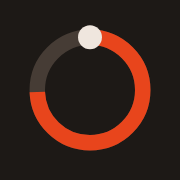
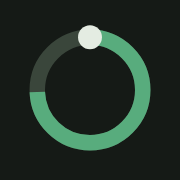
Stil Salbei: ruhige Farben, Schriften und Formen für den Zyklus-Tracker
Ersetzt die Terra-Farben durch die Salbei-Palette (hell und dunkel),
Schriften Fraunces / DM Sans / DM Mono, weichere Ecken und dünnere Linien.
Icons neu gerendert, Service-Worker-Version auf 1.5.0.

Claude-Session: https://claude.ai/code/session_01R2Ae65tKuBuL29BCCGRDHo

Changed region(s): [[0.1389, 0.1667, 0.8611, 0.8611]]

diff --git a/styles.css b/styles.css
@@ -1,24 +1,24 @@
-/* Hausstil Web v1.2 (Anna) */
+/* Stil Salbei v1.0 (Castra-Designsystem, auf Basis Hausstil Web) */
 :root {
-  --bg:#E3DAD3; --surface:#F2EBE6; --sunken:#D8CDC5; --line:#C8BBB1; --ink:#111111; --muted:#5C524D; --faint:#8D837C;
-  --accent:#E8451C; --accent-text:#AA310D; --accent-hover:#C9380F; --accent-tint:#F5CEC2; --accent-ink:#111111;
+  --bg:#DCE2D6; --surface:#F0F3EC; --sunken:#CDD5C6; --line:#B9C3B1; --ink:#16201A; --muted:#4A574D; --faint:#87918A;
+  --accent:#2F7A55; --accent-text:#21603F; --accent-hover:#276A49; --accent-tint:#CFE3D3; --accent-ink:#FFFFFF; --label-no:#CFE3D3;
   --ok:#2B6B3A; --ok-tint:#DCE8DA; --warn:#7A5200; --warn-tint:#F1E3C4;
   --err:#A3182B; --err-tint:#F2D3D3; --info:#1F4E8C; --info-tint:#D6E0EC;
   --m-gut:#2E8B47; --m-ok:#D9A300; --m-schlecht:#C8283C; --m-abends:#7B4FC2;
-  --serif:"Source Serif 4",Georgia,serif; --sans:"IBM Plex Sans",system-ui,sans-serif; --mono:"IBM Plex Mono",ui-monospace,monospace;
+  --serif:"Fraunces",Georgia,serif; --sans:"DM Sans",system-ui,sans-serif; --mono:"DM Mono",ui-monospace,monospace;
   --s1:4px; --s2:8px; --s3:12px; --s4:16px; --s5:24px; --s6:32px; --s7:48px; --s8:64px;
   --r:2px; --maxw:960px; --gutter:clamp(16px,4vw,40px); color-scheme:light;
 }
 [data-theme="dark"] {
-  --bg:#1D1916; --surface:#27211D; --sunken:#332B26; --line:#463C35; --ink:#EFE6DE; --muted:#B7ABA1; --faint:#7F746B;
-  --accent:#E8451C; --accent-text:#F0896F; --accent-hover:#EB603C; --accent-tint:#4E281D; --accent-ink:#111111;
+  --bg:#151A16; --surface:#1E2520; --sunken:#28312A; --line:#3A463B; --ink:#E4ECE2; --muted:#A8B6A9; --faint:#6E7A6F;
+  --accent:#58AC7D; --accent-text:#8CD3A8; --accent-hover:#6BBB8E; --accent-tint:#1F3A2A; --accent-ink:#0D140F; --label-no:#0D140F;
   --ok:#7FC48F; --ok-tint:#233226; --warn:#E0B25A; --warn-tint:#352B17;
   --err:#F08A8F; --err-tint:#3A2123; --info:#8DB4EA; --info-tint:#1E2A3A;
   --m-gut:#6FCB85; --m-ok:#EBC84B; --m-schlecht:#F0707A; --m-abends:#B596EE; color-scheme:dark;
 }
 @media (prefers-color-scheme: dark) { :root:not([data-theme="light"]) {
-  --bg:#1D1916; --surface:#27211D; --sunken:#332B26; --line:#463C35; --ink:#EFE6DE; --muted:#B7ABA1; --faint:#7F746B;
-  --accent:#E8451C; --accent-text:#F0896F; --accent-hover:#EB603C; --accent-tint:#4E281D; --accent-ink:#111111;
+  --bg:#151A16; --surface:#1E2520; --sunken:#28312A; --line:#3A463B; --ink:#E4ECE2; --muted:#A8B6A9; --faint:#6E7A6F;
+  --accent:#58AC7D; --accent-text:#8CD3A8; --accent-hover:#6BBB8E; --accent-tint:#1F3A2A; --accent-ink:#0D140F; --label-no:#0D140F;
   --ok:#7FC48F; --ok-tint:#233226; --warn:#E0B25A; --warn-tint:#352B17;
   --err:#F08A8F; --err-tint:#3A2123; --info:#8DB4EA; --info-tint:#1E2A3A;
   --m-gut:#6FCB85; --m-ok:#EBC84B; --m-schlecht:#F0707A; --m-abends:#B596EE; color-scheme:dark; } }
@@ -47,7 +47,7 @@ code { font:14px var(--mono); background:var(--sunken); padding:1px 5px; }
 
 .section { border-bottom:2px solid var(--ink); padding-bottom:var(--s4); margin:0 0 var(--s7); }
 .label { display:inline-block; background:var(--accent); color:var(--accent-ink); font:600 16px/1.2 var(--mono); letter-spacing:.04em; padding:9px 14px; margin:0 0 var(--s3); }
-.label .no { color:#fff; }
+.label .no { color:var(--label-no); }
 .section h2 { margin:0; }
 
 .row { display:flex; gap:var(--s3); align-items:baseline; padding:var(--s3) var(--s1); border-bottom:1px solid var(--line); }
@@ -202,3 +202,15 @@ table.data td.mood { font-weight:600; min-width:120px; }
   table.ph th, table.ph td { padding:10px 8px; }
   .ph td.cell { min-width:72px; }
 }
+
+/* Stil Salbei v1.0 (Castra-Designsystem): Form und Linien */
+:root { --r:8px; }
+.card { border-radius:10px; border-top-width:2px; }
+.note { border-radius:0 10px 10px 0; }
+.label, .tag { border-radius:6px; }
+.field input, .field select, .field textarea { border-radius:6px 6px 0 0; }
+.rule-heavy, .part { border-top-width:2px; }
+.section, table.data th, .tabs [role="tablist"] { border-bottom-width:1px; }
+.hero h1, .label, .card h3, .kpi .v, blockquote p { font-weight:600; }
+.label { font-weight:500; }
+.chip span, .themebtn { border-radius:6px; }

diff --git a/index.html b/index.html
@@ -4,8 +4,8 @@
 <meta charset="utf-8">
 <meta name="viewport" content="width=device-width, initial-scale=1, viewport-fit=cover">
 <meta name="color-scheme" content="light dark">
-<meta name="theme-color" id="tcLight" content="#E3DAD3" media="(prefers-color-scheme: light)">
-<meta name="theme-color" id="tcDark" content="#1D1916" media="(prefers-color-scheme: dark)">
+<meta name="theme-color" id="tcLight" content="#DCE2D6" media="(prefers-color-scheme: light)">
+<meta name="theme-color" id="tcDark" content="#151A16" media="(prefers-color-scheme: dark)">
 <meta name="description" content="Zyklus-Tracker: Tage, Gefühle und Muster erfassen. Alle Daten bleiben auf diesem Gerät.">
 <title>Zyklus-Tracker</title>
 <script>try{var t=localStorage.getItem('zyklus-theme');if(t==='light'||t==='dark')document.documentElement.dataset.theme=t;}catch(e){}</script>
@@ -16,7 +16,7 @@
 <meta name="apple-mobile-web-app-title" content="Zyklus">
 <link rel="preconnect" href="https://fonts.googleapis.com">
 <link rel="preconnect" href="https://fonts.gstatic.com" crossorigin>
-<link href="https://fonts.googleapis.com/css2?family=IBM+Plex+Mono:wght@400;500;600&family=IBM+Plex+Sans:wght@400;600&family=Source+Serif+4:opsz,wght@8..60,700&display=swap" rel="stylesheet">
+<link href="https://fonts.googleapis.com/css2?family=DM+Mono:wght@400;500&family=DM+Sans:opsz,wght@9..40,400;9..40,600&family=Fraunces:opsz,wght@9..144,600&display=swap" rel="stylesheet">
 <link rel="stylesheet" href="styles.css">
 </head>
 <body>

diff --git a/src/ui.js b/src/ui.js
@@ -251,9 +251,9 @@ export function applyTheme() {
   if (t === 'auto') delete document.documentElement.dataset.theme; else document.documentElement.dataset.theme = t;
   try { localStorage.setItem('zyklus-theme', t); } catch { /* egal */ }
   // Statusleiste am Handy passend einfärben
-  const forced = { light: '#E3DAD3', dark: '#1D1916' }[t];
-  $('tcLight').content = forced || '#E3DAD3';
-  $('tcDark').content = forced || '#1D1916';
+  const forced = { light: '#DCE2D6', dark: '#151A16' }[t];
+  $('tcLight').content = forced || '#DCE2D6';
+  $('tcDark').content = forced || '#151A16';
   $('themeBtn').textContent = 'Farbe: ' + THEME_LABEL[t];
   $('themeBtn').setAttribute('aria-label', `Farbschema: ${THEME_LABEL[t]}. Wechseln zu ${THEME_LABEL[THEME_NEXT[t]]}`);
   $('setTheme').value = t;

diff --git a/sw.js b/sw.js
@@ -1,5 +1,5 @@
 /* Service Worker: App offline verfügbar machen. Speichert nur App-Dateien, keine Einträge. */
-const VERSION = 'zyklus-v1.4.0';
+const VERSION = 'zyklus-v1.5.0';
 const SHELL = ['./', './index.html', './styles.css', './manifest.webmanifest',
   './src/main.js', './src/ui.js', './src/logic.js', './src/model.js', './src/storage.js', './src/texts.js',
   './icons/icon.svg', './icons/icon-192.png', './icons/icon-512.png', './icons/apple-touch-icon.png'];
